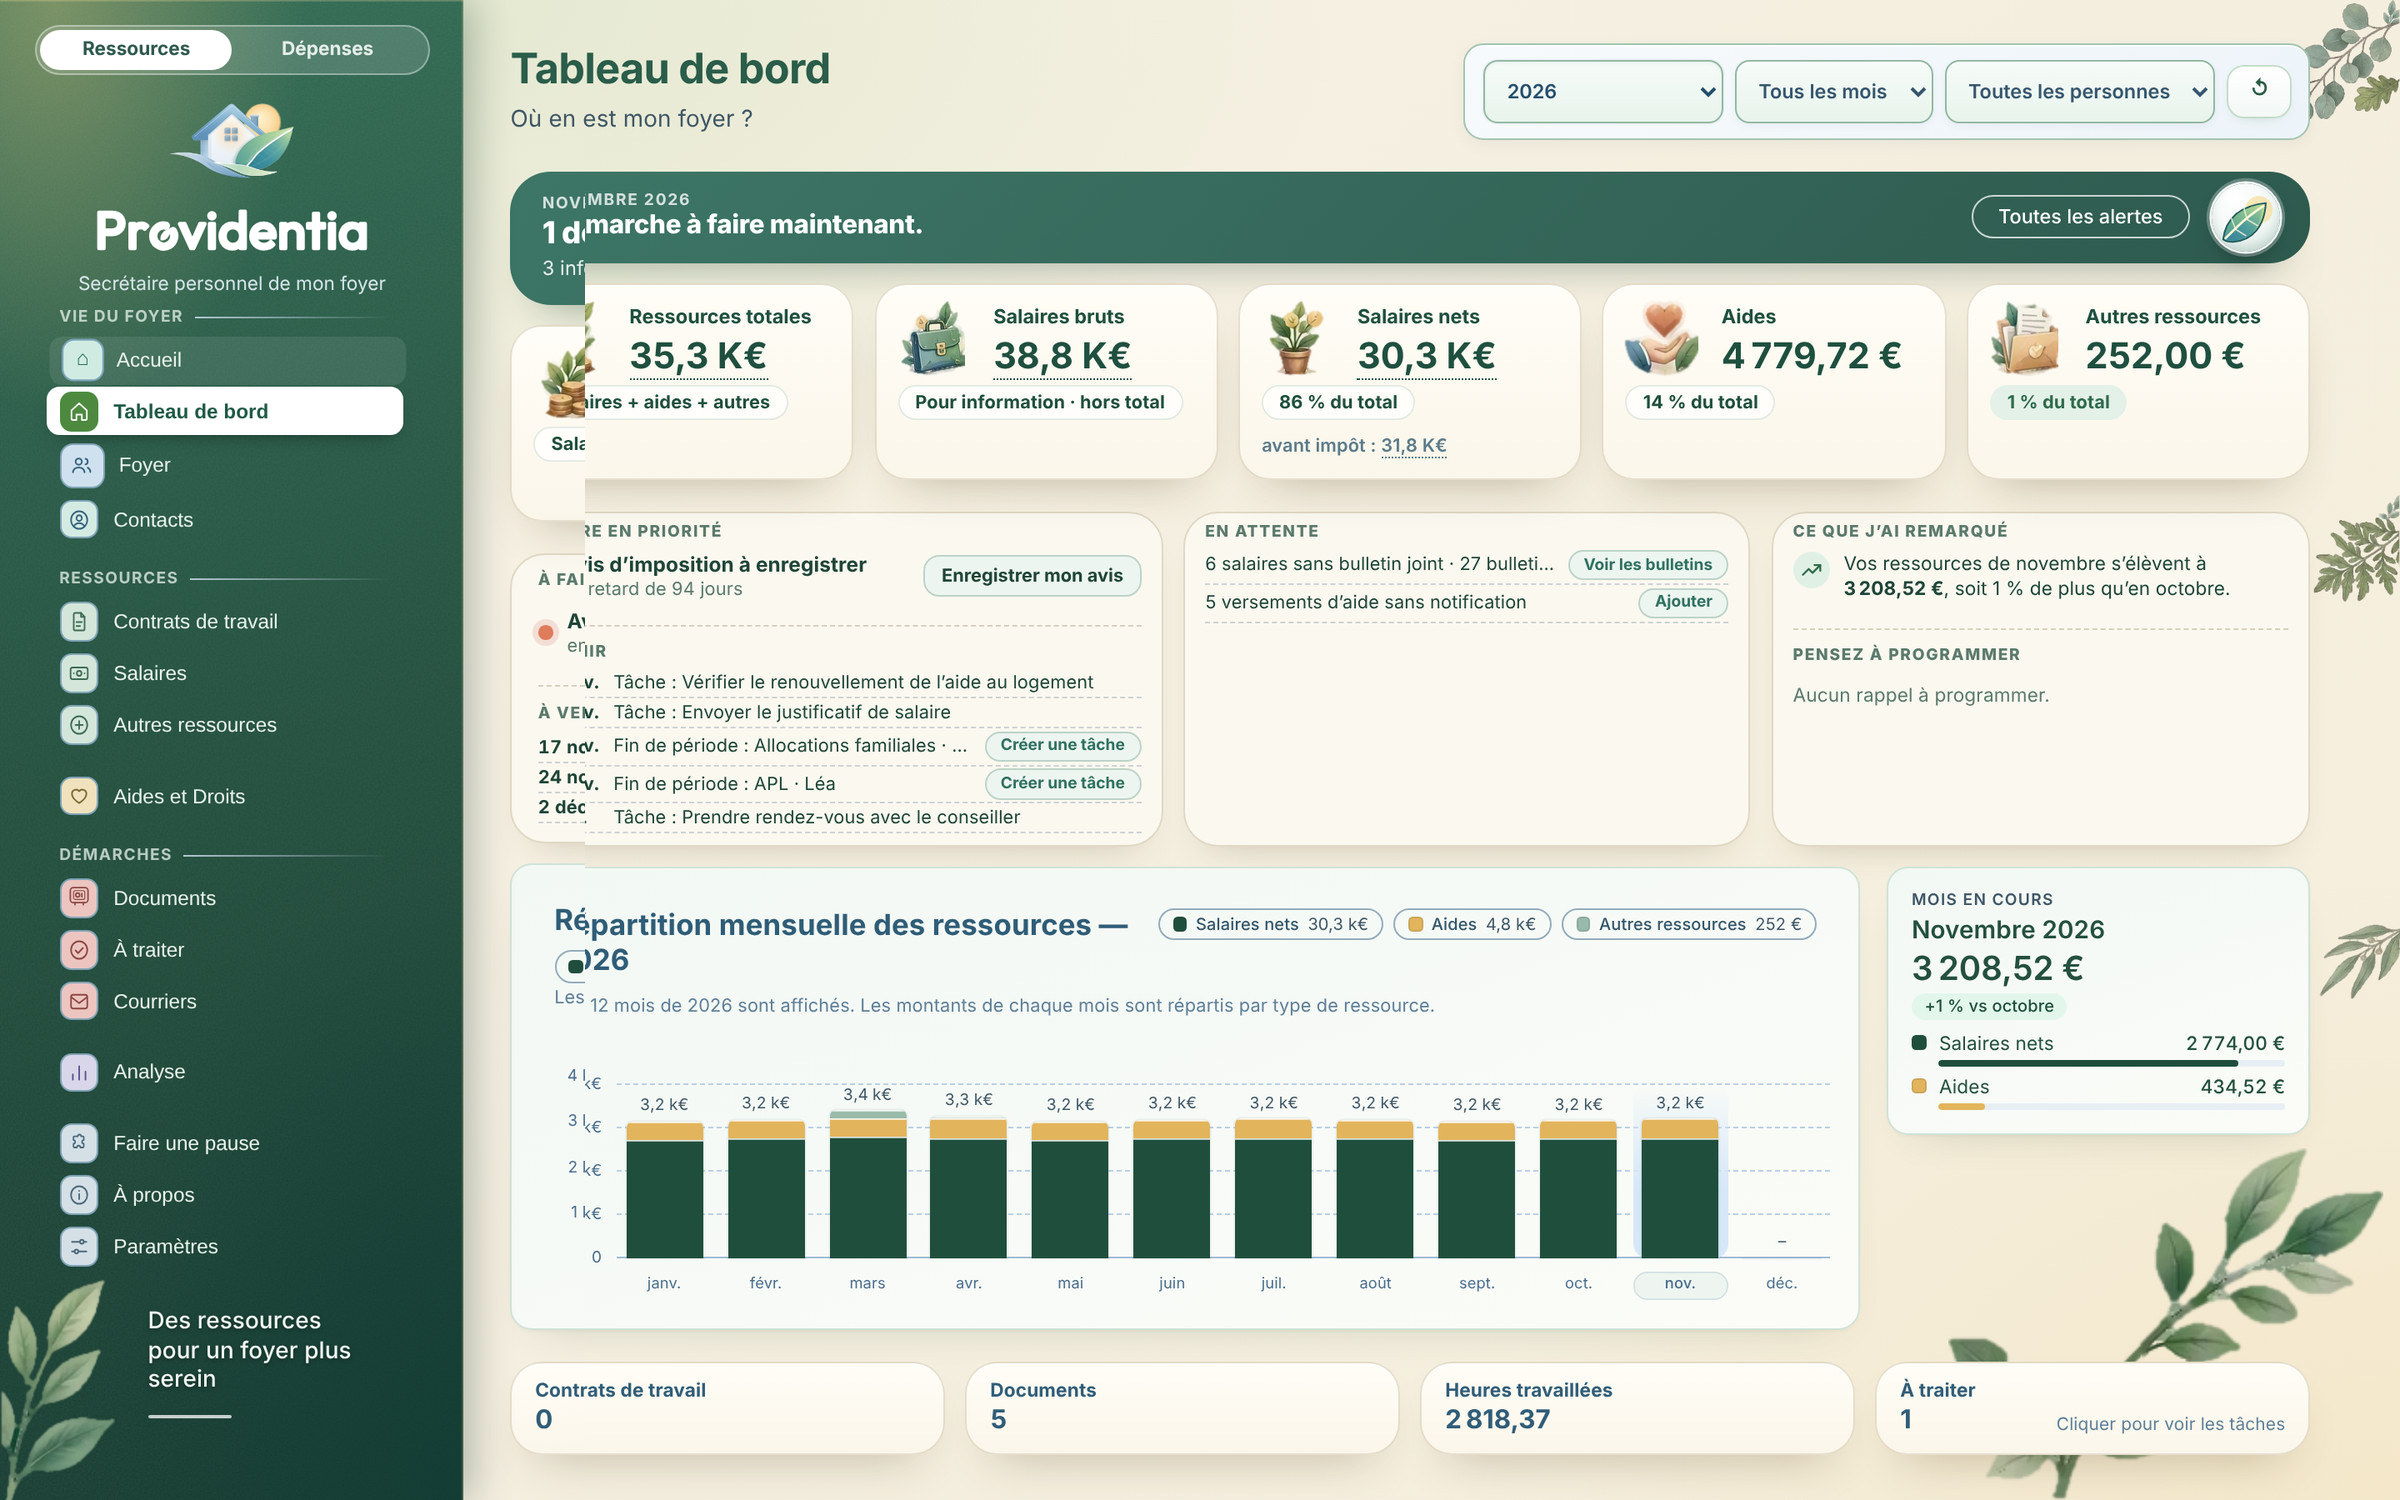
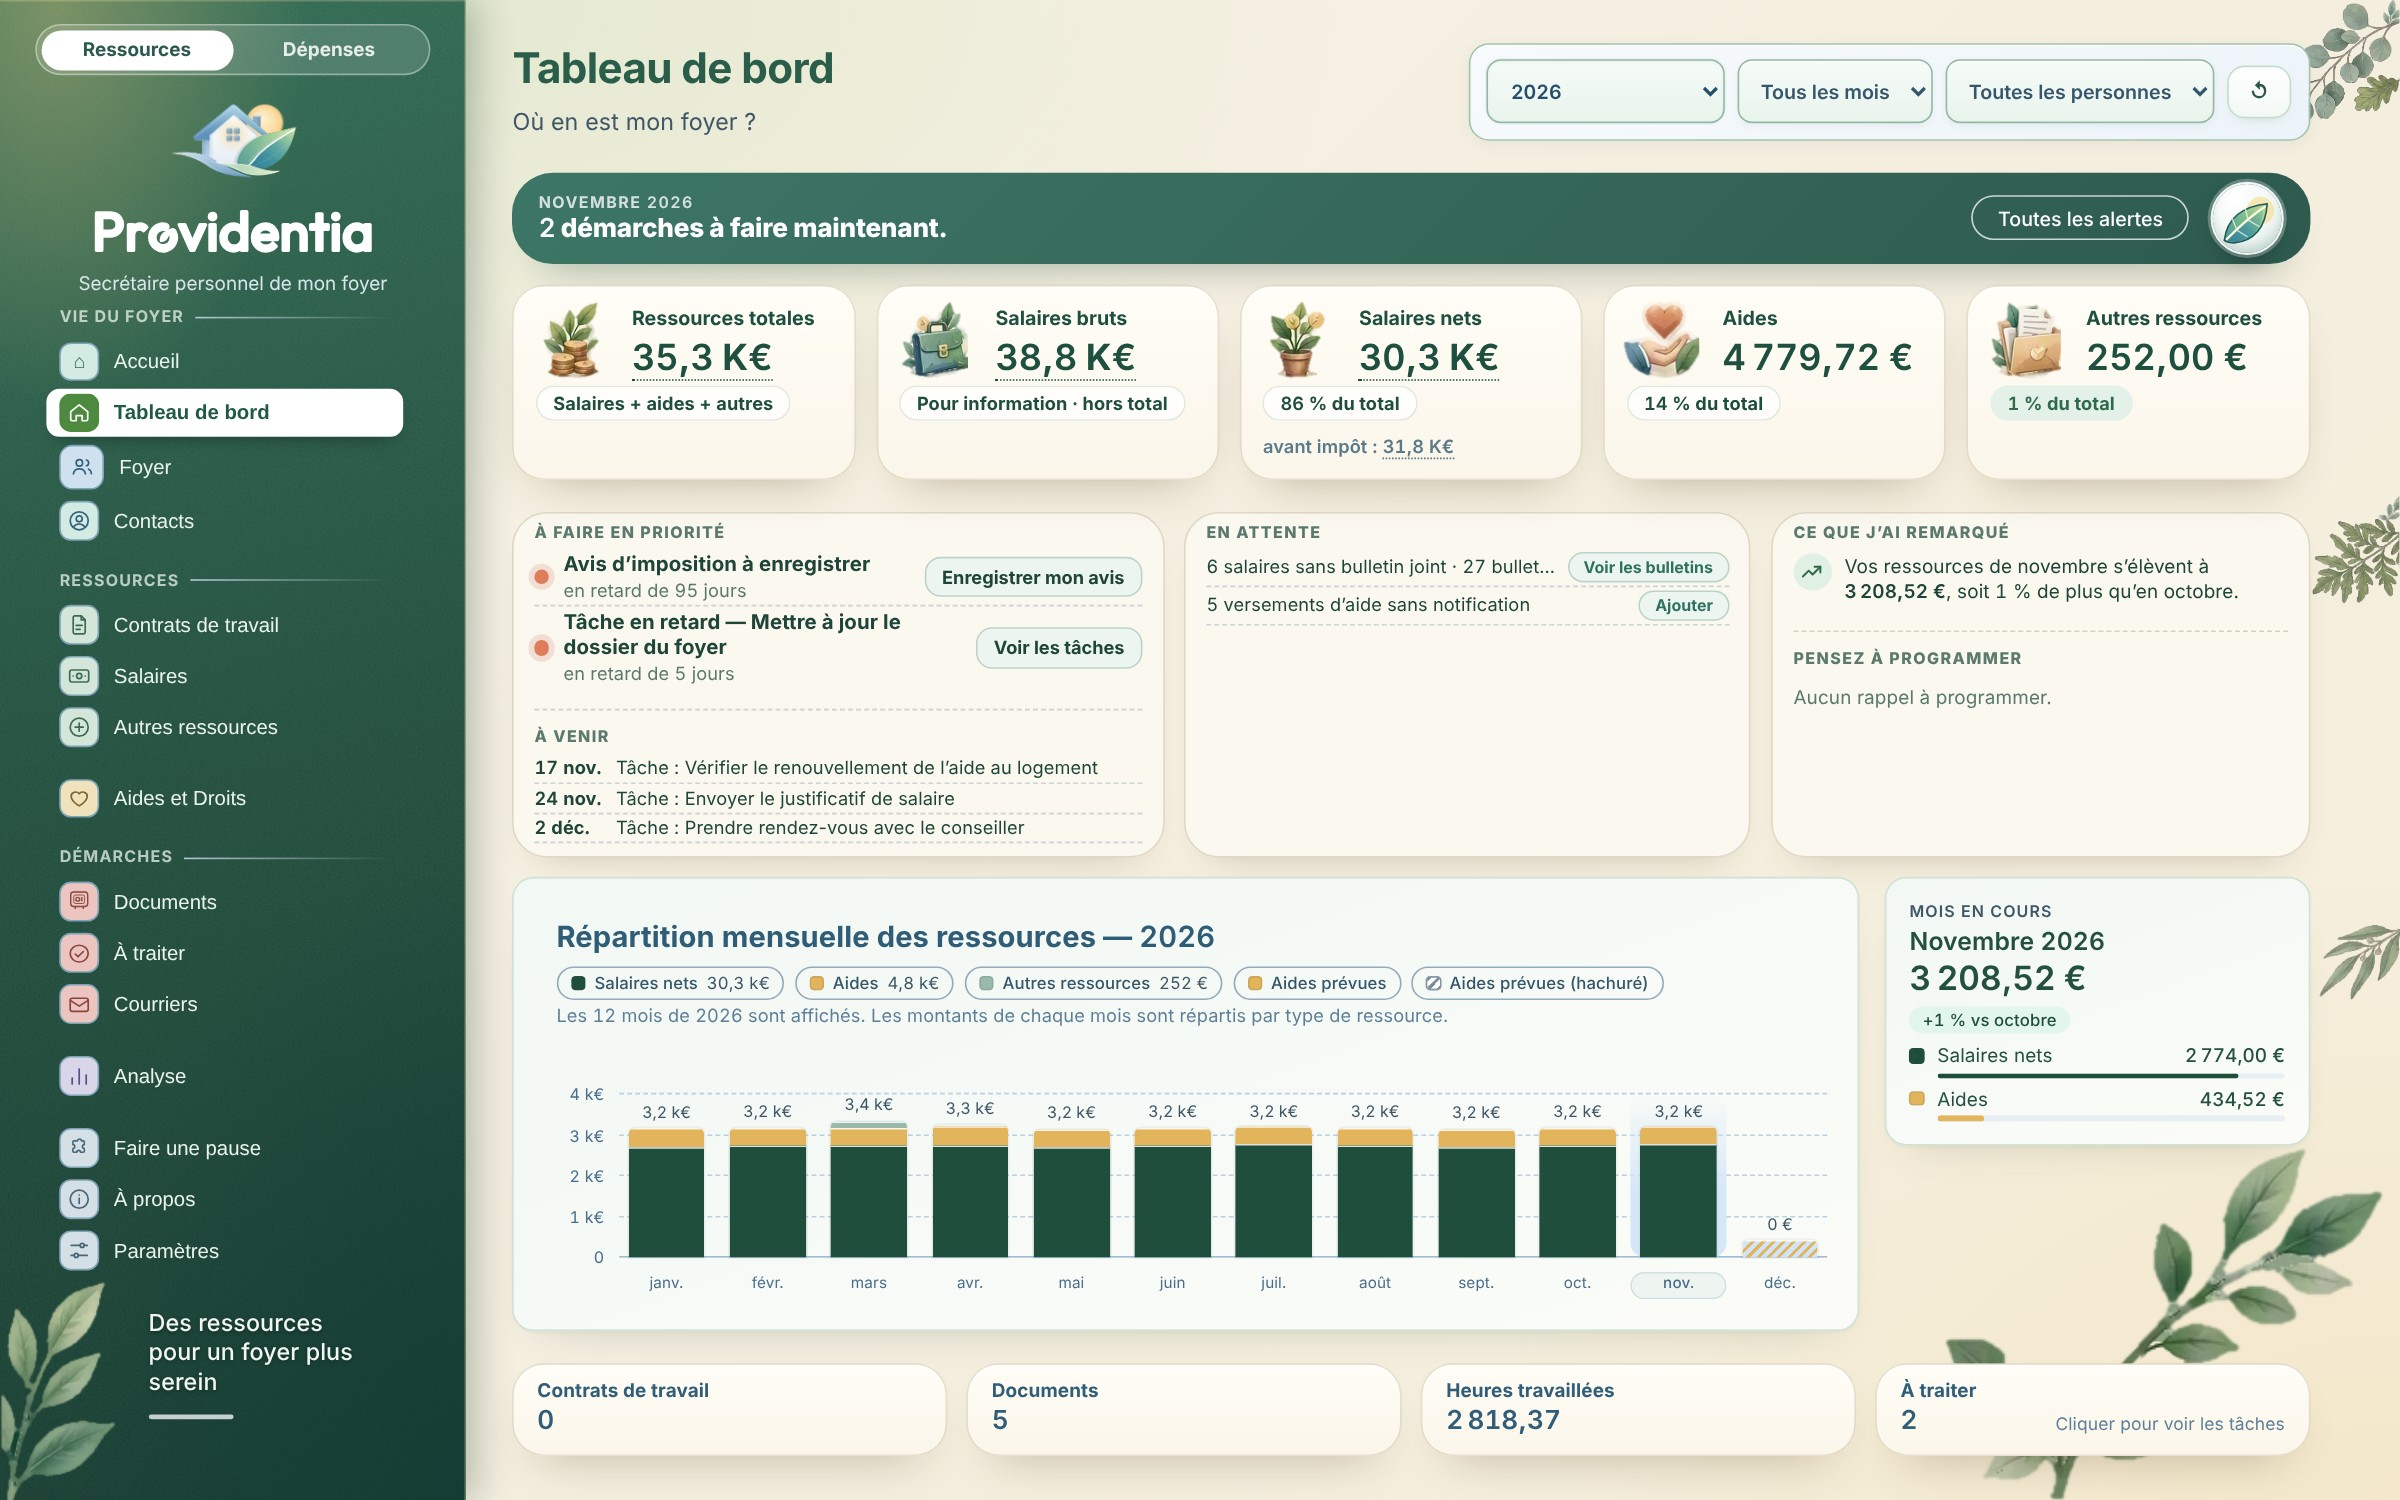
Site : vignette Ressources recapturée (l'ancienne image avait un morceau de page collé en double)
Claude-Session: https://claude.ai/code/session_01RA8xAmmrXVRgUB3XPSfCSo

diff --git a/index.html b/index.html
@@ -369,7 +369,7 @@ footer .links a{margin-right:16px}
     <div class="wrap">
       <div class="head"><span class="eyebrow">Deux espaces, un foyer</span><h2>Ce qui entre, ce qui sort.</h2></div>
       <div class="duo">
-        <a class="space res" href="#ressources"><div class="pic"><img src="img/res_tableau.jpg?v=7" width="2400" height="1500" alt="Tableau de bord de l’espace Ressources" loading="lazy"></div>
+        <a class="space res" href="#ressources"><div class="pic"><img src="img/res_tableau.jpg?v=8" width="2400" height="1500" alt="Tableau de bord de l’espace Ressources" loading="lazy"></div>
           <div class="tx"><h3>Ressources</h3><p>Contrats de travail, salaires, aides et droits, documents, courriers et analyse : tout ce qui rentre dans le foyer.</p><span class="go">Parcourir l’espace →</span></div></a>
         <a class="space dep" href="#depenses"><div class="pic"><img src="img/dep_reste.jpg?v=7" width="2400" height="1500" alt="Page « Reste à vivre » de l’espace Dépenses" loading="lazy"></div>
           <div class="tx"><h3>Dépenses</h3><p>Frais obligatoires, crédits et dettes, reste à vivre, dossiers de réclamation et projets : tout ce qui sort.</p><span class="go">Parcourir l’espace →</span></div></a>
@@ -413,7 +413,7 @@ footer .links a{margin-right:16px}
       <div class="show res" data-show>
         <div class="list" role="tablist" aria-label="Pages de l’espace Ressources">
           <button role="tab" aria-selected="true" data-src="img/res_accueil.jpg?v=5" data-alt="Accueil de l’espace Ressources : le geste du moment et cinq tuiles pour agir" data-cap="Chaque matin, un geste à la fois : le plus utile du moment, puis cinq tuiles pour ajouter un contrat, un salaire, une aide, rédiger un courrier ou vérifier ses droits."><b>Accueil</b><span>Le geste du moment, cinq tuiles</span></button>
-          <button role="tab" aria-selected="false" data-src="img/res_tableau.jpg?v=7" data-alt="Tableau de bord : ressources du mois, démarches à faire, répartition mensuelle" data-cap="Où en est mon foyer ? Les ressources de l’année, ce qu’il faut faire maintenant et ce qui arrive, en un coup d’œil."><b>Tableau de bord</b><span>L’état du foyer en un coup d’œil</span></button>
+          <button role="tab" aria-selected="false" data-src="img/res_tableau.jpg?v=8" data-alt="Tableau de bord : ressources du mois, démarches à faire, répartition mensuelle" data-cap="Où en est mon foyer ? Les ressources de l’année, ce qu’il faut faire maintenant et ce qui arrive, en un coup d’œil."><b>Tableau de bord</b><span>L’état du foyer en un coup d’œil</span></button>
           <button role="tab" aria-selected="false" data-src="img/res_contrats.jpg?v=7" data-alt="Contrats de travail : liste des contrats avec leur document" data-cap="Chaque contrat est rangé avec son document. Providentia signale ceux dont le contrat signé n’est pas encore classé."><b>Contrats de travail</b><span>Chaque contrat, avec son document</span></button>
           <button role="tab" aria-selected="false" data-src="img/res_salaires.jpg?v=7" data-alt="Salaires : bulletins par mois avec total, net moyen et heures" data-cap="Chaque rémunération est reliée à son contrat et à son bulletin. Le total, le net moyen et les heures du mois se lisent à droite."><b>Salaires</b><span>Bulletins, net, heures</span></button>
           <button role="tab" aria-selected="false" data-src="img/res_aides.jpg?v=7" data-alt="Aides et droits : aides enregistrées par organisme" data-cap="Les aides reçues, organisme par organisme, avec leur fréquence. « Vérifier les droits » propose des pistes à examiner."><b>Aides et droits</b><span>Ce qui est versé, ce qui est à vérifier</span></button>
